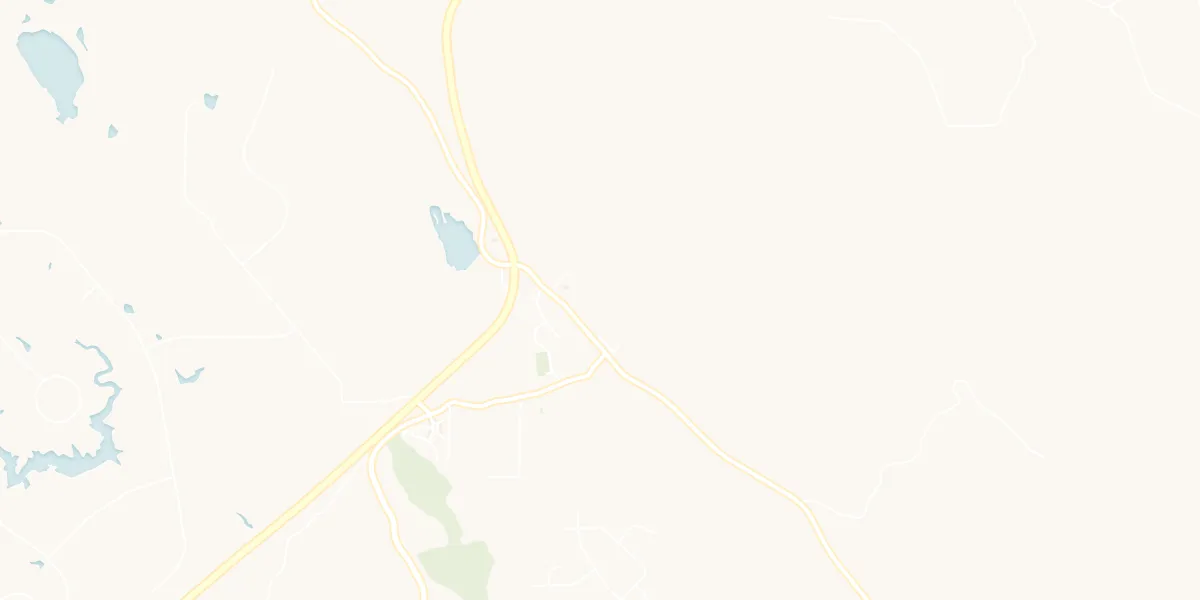
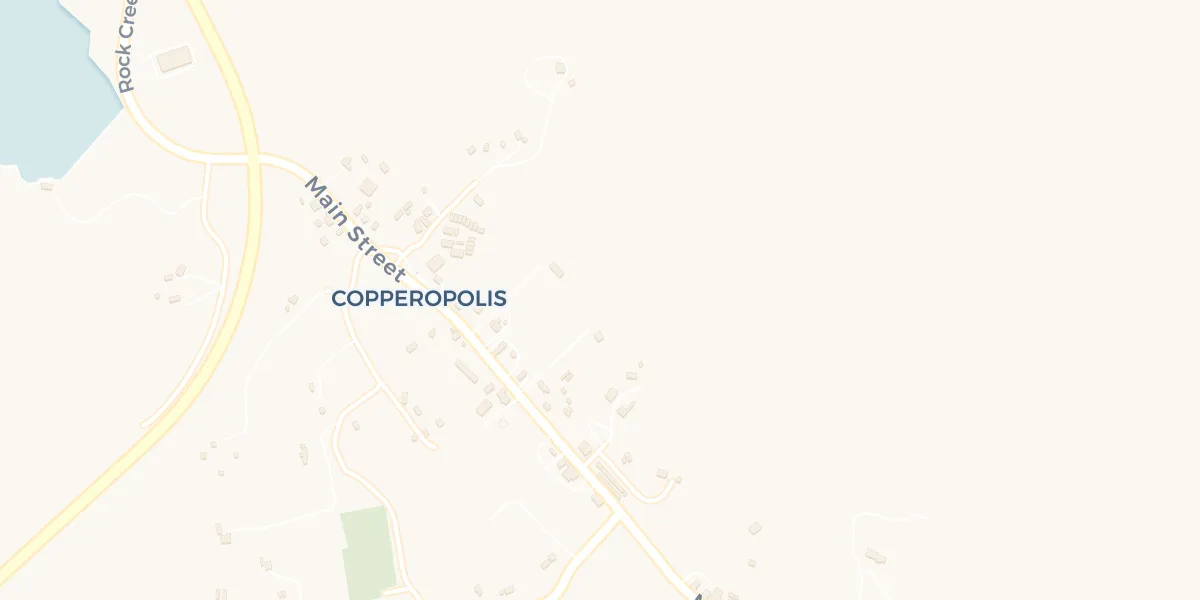
Tune map zoom per town + fix Bear Valley coordinates
The detail map defaulted to a wide zoom 13 that looked too far out for
downtown venues. Bumped the default to 15 (neighborhood) for towns with
a real downtown (Angels Camp, Copperopolis, Murphys, White Pines), while
remote alpine hamlets whose centroid sits in forest (Arnold, Avery,
Dorrington, Camp Connell, Bear Valley) keep a wider zoom via a new
TownInfo.mapZoom. The interactive map still zooms to 15 once it geocodes
an actual venue, so rural events get a tight pin too.

Also corrected Bear Valley's stored coordinate — it was ~13 miles south
of the village in empty forest, so its map (and directions/structured
data) pointed at nothing. Now centered on Bear Valley Village.

diff --git a/components/EventMap.tsx b/components/EventMap.tsx
@@ -27,12 +27,14 @@ const markerIcon = L.divIcon({
   popupAnchor: [0, -36],
 });
 
-/** Pans the map to a new center whenever it changes (e.g. after geocoding). */
-function Recenter({ center }: { center: [number, number] }) {
+const VENUE_ZOOM = 15; // tight zoom once we have an exact geocoded point
+
+/** Pans/zooms the map to a new view whenever it changes (e.g. after geocoding). */
+function Recenter({ center, zoom }: { center: [number, number]; zoom: number }) {
   const map = useMap();
   useEffect(() => {
-    map.setView(center);
-  }, [map, center]);
+    map.setView(center, zoom);
+  }, [map, center, zoom]);
   return null;
 }
 
@@ -40,10 +42,13 @@ export default function EventMap({ town, venueName, address, geocodeQuery }: Eve
   const townData = TOWN_INFO[town];
   const townCenter: [number, number] | null =
     townData?.lat != null && townData?.lng != null ? [townData.lat, townData.lng] : null;
+  const townZoom = townData?.mapZoom ?? VENUE_ZOOM;
 
   const [center, setCenter] = useState<[number, number] | null>(townCenter);
+  const [zoom, setZoom] = useState(townZoom);
 
-  // Geocode the venue after mount (off the page-load path) and recenter on it.
+  // Geocode the venue after mount (off the page-load path), then recenter and
+  // zoom in to the exact point (even for wide-default rural towns).
   useEffect(() => {
     if (!geocodeQuery) return;
     let cancelled = false;
@@ -52,6 +57,7 @@ export default function EventMap({ town, venueName, address, geocodeQuery }: Eve
       .then((coords) => {
         if (!cancelled && coords && typeof coords.lat === "number" && typeof coords.lng === "number") {
           setCenter([coords.lat, coords.lng]);
+          setZoom(VENUE_ZOOM);
         }
       })
       .catch(() => {});
@@ -69,12 +75,12 @@ export default function EventMap({ town, venueName, address, geocodeQuery }: Eve
       <div className="overflow-hidden rounded-lg border border-stone-light/30 card-warm">
         <MapContainer
           center={center}
-          zoom={13}
+          zoom={zoom}
           scrollWheelZoom={false}
           className="h-[240px] sm:h-[300px] w-full z-0"
           attributionControl={true}
         >
-          <Recenter center={center} />
+          <Recenter center={center} zoom={zoom} />
           <TileLayer
             attribution='&copy; <a href="https://openstreetmap.org/copyright">OpenStreetMap</a> contributors &copy; <a href="https://carto.com/attributions">CARTO</a>'
             url="https://{s}.basemaps.cartocdn.com/rastertiles/voyager/{z}/{x}/{y}{r}.png"

diff --git a/scripts/generate-town-maps.ts b/scripts/generate-town-maps.ts
@@ -19,19 +19,19 @@ import { join } from "node:path";
 import { CORRIDOR_TOWNS } from "../lib/towns";
 import { townSlug } from "../lib/slugs";
 
-const ZOOM = 13;
+const DEFAULT_ZOOM = 15; // neighborhood level; overridden per town via TownInfo.mapZoom
 const TILE = 512; // CARTO @2x tiles are 512px (retina)
 const OUT_W = 1200; // displayed at 600px CSS width
 const OUT_H = 600; // displayed at 300px CSS height
 const OUT_DIR = join(__dirname, "..", "public", "maps");
 
-function lngToWorldPx(lng: number): number {
-  const n = Math.pow(2, ZOOM);
+function lngToWorldPx(lng: number, zoom: number): number {
+  const n = Math.pow(2, zoom);
   return ((lng + 180) / 360) * n * TILE;
 }
 
-function latToWorldPx(lat: number): number {
-  const n = Math.pow(2, ZOOM);
+function latToWorldPx(lat: number, zoom: number): number {
+  const n = Math.pow(2, zoom);
   const latRad = (lat * Math.PI) / 180;
   const y = (1 - Math.asinh(Math.tan(latRad)) / Math.PI) / 2;
   return y * n * TILE;
@@ -46,9 +46,9 @@ async function fetchTile(z: number, x: number, y: number): Promise<Buffer> {
   return Buffer.from(await res.arrayBuffer());
 }
 
-async function generateForTown(name: string, lat: number, lng: number): Promise<void> {
-  const centerX = lngToWorldPx(lng);
-  const centerY = latToWorldPx(lat);
+async function generateForTown(name: string, lat: number, lng: number, zoom: number): Promise<void> {
+  const centerX = lngToWorldPx(lng, zoom);
+  const centerY = latToWorldPx(lat, zoom);
   const left = centerX - OUT_W / 2;
   const top = centerY - OUT_H / 2;
 
@@ -60,7 +60,7 @@ async function generateForTown(name: string, lat: number, lng: number): Promise<
   const composites: sharp.OverlayOptions[] = [];
   for (let tx = minTileX; tx <= maxTileX; tx++) {
     for (let ty = minTileY; ty <= maxTileY; ty++) {
-      const buf = await fetchTile(ZOOM, tx, ty);
+      const buf = await fetchTile(zoom, tx, ty);
       composites.push({
         input: buf,
         left: Math.round(tx * TILE - left),
@@ -84,7 +84,7 @@ async function generateForTown(name: string, lat: number, lng: number): Promise<
 async function main() {
   await mkdir(OUT_DIR, { recursive: true });
   for (const t of CORRIDOR_TOWNS) {
-    await generateForTown(t.name, t.lat, t.lng);
+    await generateForTown(t.name, t.lat, t.lng, t.mapZoom ?? DEFAULT_ZOOM);
   }
   console.log(`\nDone. ${CORRIDOR_TOWNS.length} town maps written to public/maps/`);
 }

diff --git a/lib/towns.ts b/lib/towns.ts
@@ -13,6 +13,14 @@ export interface TownInfo {
    * Optional — only set for towns where there's a sensible town-square anchor.
    */
   defaultAddress?: string;
+  /**
+   * Default zoom for the town's static map thumbnail and the interactive map's
+   * town-centroid fallback. Defaults to 15 (neighborhood) for towns with a real
+   * downtown; remote alpine hamlets whose centroid sits in forest use a wider
+   * zoom (13) so there's road/context instead of a blank frame. The interactive
+   * map still zooms to 15 once it geocodes an actual venue.
+   */
+  mapZoom?: number;
 }
 
 export const CORRIDOR_TOWNS: TownInfo[] = [
@@ -43,6 +51,7 @@ export const CORRIDOR_TOWNS: TownInfo[] = [
     tagline: "Quiet stop on the way up",
     lat: 38.1860,
     lng: -120.3870,
+    mapZoom: 13,
   },
   {
     name: "White Pines",
@@ -58,6 +67,7 @@ export const CORRIDOR_TOWNS: TownInfo[] = [
     lat: 38.2144,
     lng: -120.3510,
     defaultAddress: "961 Highway 4, Arnold CA",
+    mapZoom: 13,
   },
   {
     name: "Dorrington",
@@ -65,6 +75,7 @@ export const CORRIDOR_TOWNS: TownInfo[] = [
     tagline: "Quiet mountain hamlet",
     lat: 38.2280,
     lng: -120.2960,
+    mapZoom: 13,
   },
   {
     name: "Camp Connell",
@@ -72,13 +83,15 @@ export const CORRIDOR_TOWNS: TownInfo[] = [
     tagline: "Deep in the pines",
     lat: 38.2340,
     lng: -120.2750,
+    mapZoom: 13,
   },
   {
     name: "Bear Valley",
     elevation: 7000,
     tagline: "Alpine resort at the summit",
-    lat: 38.2810,
-    lng: -120.0420,
+    lat: 38.4646,
+    lng: -120.0399,
+    mapZoom: 14,
   },
 ];
 
